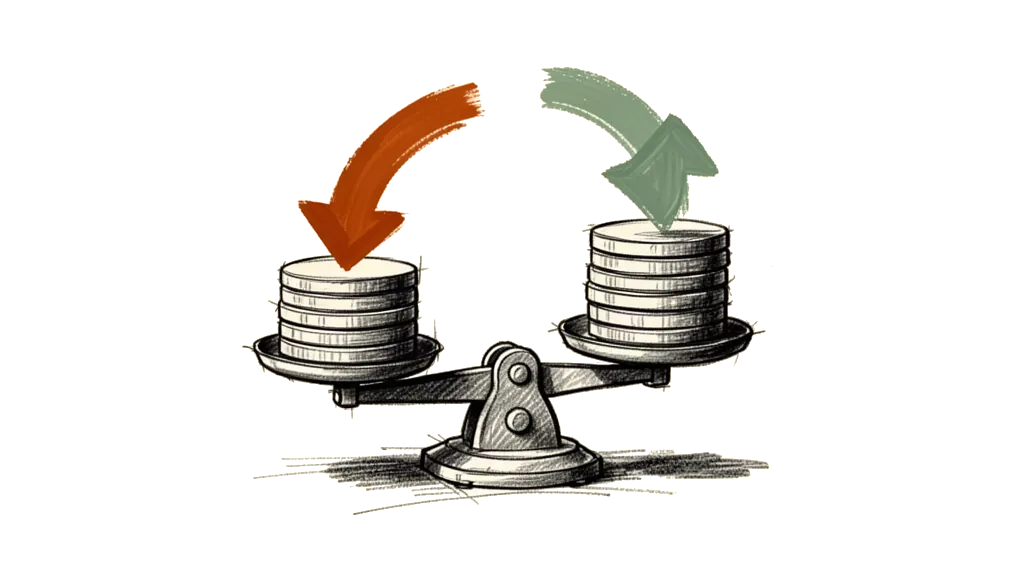
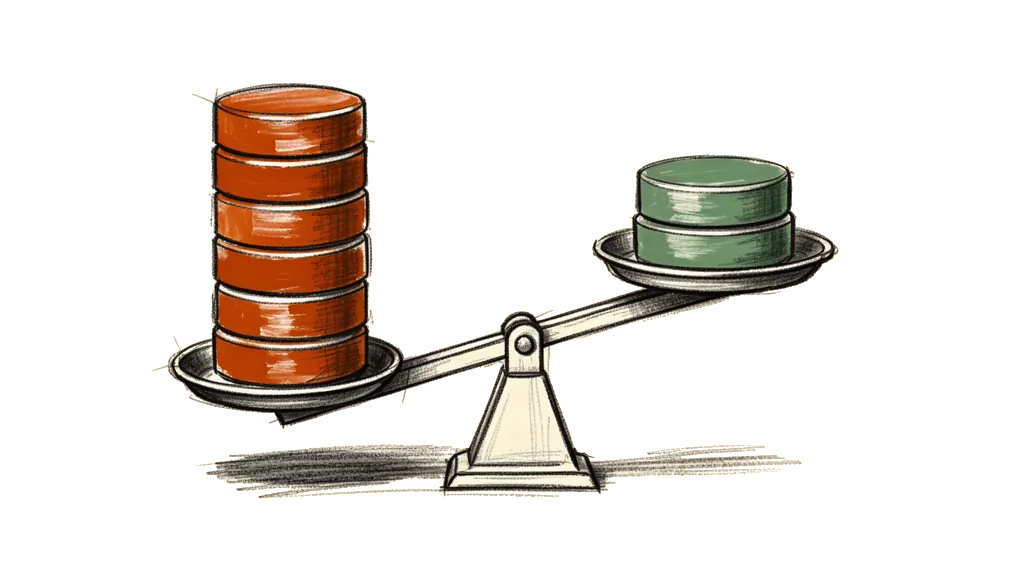
post: publish Bitcoin 2013 chat essay

Changed region(s): [[0.1562, 0.0938, 0.8125, 0.9062]]

diff --git a/content/posts/de/2026/bitcoin-2013-gelddrucken-mtgox.md b/content/posts/de/2026/bitcoin-2013-gelddrucken-mtgox.md
@@ -1,0 +1,180 @@
+---
+title: "Gelddrucken in Neukölln: Mein Bitcoin-Chat 2013"
+seo_title: "Gelddrucken in Neukölln: Mein Bitcoin-Chat 2013 | emin.de"
+description: "Ein nächtlicher Bot auf Mt. Gox, 17.500 Euro für einen Miner und eine Rechnung, die auf vier Schätzungen steht."
+date: 2026-11-17
+updated: 2026-11-17
+lang: de
+translations: {}
+category: bitcoin
+format: essay
+author: emin
+provenance: mixed
+ai_assisted: true
+reviewed_by_human: false
+review_status: draft-emin-voice
+voice_rewrite: v1
+tags: ["bitcoin", "mining", "mtgox", "2013", "difficulty", "wallet"]
+source_links:
+  - { title: "Eurostat nrg_pc_204, Haushaltsstrompreise", url: "https://ec.europa.eu/eurostat/databrowser/view/nrg_pc_204/default/table", note: "Deutschland, 2. Halbjahr 2013, 0,2921 Euro je kWh." }
+  - { title: "Block 274.047", url: "https://mempool.space/api/v1/block/0000000000000004ca4e3cbe80d01b3c8a0851b55c011573440730784a798673", note: "Difficulty 707.408.283, Subsidy 25 BTC." }
+  - { title: "Block 274.240", url: "https://mempool.space/api/v1/block/00000000000000007dd1a9c6ff5c9d0ecaa622c3a8c24455c8768f148399325b", note: "Difficulty 908.350.862, Anstieg um 28,4 Prozent." }
+  - { title: "Bitcoin Developer Guide: Block Chain", url: "https://developer.bitcoin.org/devguide/block_chain.html", note: "Difficulty-Anpassung, Blocksubsidie und Proof of Work." }
+  - { title: "Bitcoin Developer Guide: Transactions", url: "https://developer.bitcoin.org/devguide/transactions.html", note: "UTXOs, Private Key, Wechselgeld." }
+  - { title: "Reuters: Mt. Gox files for bankruptcy", url: "https://www.reuters.com/article/business/mt-gox-files-for-bankruptcy-hit-with-lawsuit-idUSBREA1R0FX", note: "Insolvenzantrag 28.02.2014, damals gemeldete 850.000 BTC." }
+  - { title: "CNBC: Mt. Gox findet 200.000 BTC", url: "https://cnbc.com/2014/03/20/mtgox-says-it-found-200000-bitcoins-in-forgotten-wallet.html", note: "Wiedergefundene Coins, 20.03.2014." }
+tldr:
+  - "2013 ließ ich 1.760 Euro in einem Handelsbot auf Mt. Gox mitlaufen. 6,5 Prozent Zwischenstand, nichts davon realisiert."
+  - "Für 17.500 Euro und 670 GH/s bin ich nach Mannheim gefahren, ohne zu wissen, wie Mining geht."
+  - "Die Amortisation von 63,7 Tagen steht auf vier Schätzungen. Einen Tag nach dem Kauf fiel der rechnerische Ertrag um 22,1 Prozent."
+  - "Mt. Gox galt im Chat als zu profitabel zum Schließen. 81 Tage später kam der Insolvenzantrag."
+basically:
+  der-bot-läuft-im-handbetrieb: "Der Bot stellt Orders über HTTP, Mt. Gox antwortet mit Fehlern, das System stoppt, ich lese den Kurs bei 690 ab."
+  zwei-nicht-miner-kaufen-hardware: "17.500 Euro, 670 GH/s, keine Ahnung von Mining, dafür eine Pool-Empfehlung vom Verkäufer."
+  die-rechnung-steht-auf-vier-annahmen: "41 Stunden, 690 Euro, 600 Watt und ein Strompreisdurchschnitt ergeben 63,7 Tage, die prompt brechen."
+  da-sind-doch-die-coins-drinn: "Die Wallet enthält Schlüssel, keine Coins. Das Guthaben ist die Summe passender UTXOs in einer öffentlichen Kette."
+  rebalancing-ist-keine-arbitrage: "Kaufen bei Fall, verkaufen bei Steigung, gehebelt, vier Prozent in vier Tagen laut Julian."
+  vertrauen-auf-kredit: "Mt. Gox sei zu profitabel zum Schließen, sagte Julian am 9. Dezember. 81 Tage später kam der Insolvenzantrag."
+  vier-jahre-später: "2017 redet Julian von Future-Arbitrage und zehn Prozent im Monat. Der Miner kommt nicht mehr vor."
+---
+
+In [Bitcoin 2012](/posts/bitcoin-2012) war Arbitrage für mich noch ein Gedankenspiel. Julian hatte so etwas schon einmal programmiert, zwischen zwei Börsen, und sagte, ohne ungefähr eine Million zum Streuen werde das nicht profitabel. Ich hielt damals mehr von eigenen Projekten.
+
+Der Chat, um den es hier geht, fängt ein Jahr später an, nachts, und ist keine Theorie mehr. Es gibt einen Bot, einen Miner und ein Konto bei Mt. Gox. Ich habe das alles mitgemacht, ohne zu wissen, wie Mining funktioniert. Keine Erfolgsstory, eher eine Rechnung mit offenen Stellen.
+
+## Der Bot läuft im Handbetrieb
+
+Am 2. Dezember 2013 um 01:20 schreibe ich Julian, das E-Mail sei bescheuert, wir sollen chatten, und lege gleich meine Prognose hinterher.
+
+> Ich: "Glaube der fällt noch bis auf 500 oder weniger und dann pendelt er sich ein (nur so ein bauchgefühl) aber interessant wirds ja eh erst dann, wenn der kurs total ausrastet und dein system wirkt. nimmst du meine coins da gleich mit rein"
+
+Sein System ist ein Bot, der Orders über die HTTP-Schnittstelle von Mt. Gox stellt. Wenn die Börse mit einem Fehler antwortet, hält er an, aus Sicherheit. Deshalb steht er auf Handbetrieb.
+
+> Julian: "die bitcoins ins system packen dauert, die müssen erst transferiert werden"
+> Julian: "und das system ist grad auf handbetrieb, die connection per hhtp schmiert immer ab und das system stoppt aus sicherheit."
+
+Später sagt er: "habe heute alle chancen mitgenommen aber es war anstrengend". Der Automat ist an diesem Tag ein Mensch mit offenem Fenster.
+
+Um 01:23 frage ich, ob hohe oder niedrige Preise besser sind. Er sagt hoch. Der Kurs steht im Chat, weil ich ihn ablese.
+
+> Ich: "sind bei 690 grad"
+
+Kurz darauf rechnet Julian mir einen Zwischenstand zu.
+
+> Julian: "du hast jetzt schon 6.5% gewinn gemacht mit deinen 1760€, na wie fühlt sich das an? :D"
+> Julian: "und gleich ist es wieder weg"
+
+6,5 Prozent von 1.760 € sind 114,40 €. Nichts davon ist realisiert, es steht nur im System. Ich antworte, dass ich das Mitfiebern liebe, egal ob Fußball oder Bitcoin.
+
+## Zwei Nicht-Miner kaufen Hardware
+
+Am 8. Dezember finde ich eine Anzeige für KnC-Miner, November-Batch, 670 GH/s, mit Rechnung, von jemandem, der die Geräte auch vermietet. "scheint relativ seriös", schreibe ich. Am nächsten Tag fahre ich los.
+
+> Ich: "Jo bin auf dem weg nach mannheim"
+> Ich: "miner kaufen  😃"
+
+Unterwegs frage ich noch, ob wir uns einem Pool anschließen müssen. Julian sagt ja und dann: "kenn mich aber auch nicht aus". Zwei Nicht-Miner kaufen also Hardware, der Verkäufer liefert die Pool-Empfehlung gleich mit.
+
+Die Leistung steht zuerst falsch im Chat. Ich schreibe 360 GH/s, Julian fragt nach, ich korrigiere: "ähm ja klar 670 sorry". 17.500 € und 670 GH/s sind ab hier die beiden Zahlen, mit denen wir für die Maschine rechnen. Den finalen Kaufpreis zeigt der Chat nicht.
+
+Abends teste ich fünf Minuten und poste den ersten Kontostand.
+
+> Ich: "habs aber auch 5min getestet"
+> Ich: "0.00570064 auf meinem account  😃"
+
+0,00570064 BTC in fünf Minuten wären hochgerechnet 1,64 BTC am Tag. Später stehen 0,68 BTC nach geschätzten 41 Stunden auf dem Zähler. Als Rate taugt der erste Wert deshalb nicht. Was genau davon bereits auf dem Konto war, geht aus dem Chat nicht hervor. Ich habe ihn trotzdem wie ein Ergebnis behandelt.
+
+## Die Rechnung steht auf vier Annahmen
+
+Julian schätzt den Break-even auf zwei bis drei Monate. Am 11. Dezember schreibe ich den Kontostand.
+
+> Ich: "0.67992427 BTC!"
+> Julian: "ok also ungefähr 41 stunden für die summe, rechne mal mit exel rum"
+
+Die Rechnung mit dem Kontostand ist einfach:
+
+```
+Ertrag/24 h  = 0,67992427 BTC / 41 h × 24 h = 0,398004 BTC
+Brutto/Tag   = 0,398004 BTC × 690 €           = 274,62 €
+Amortisation = 17.500 € / 274,62 €            = 63,7 Tage
+Strom/Tag    = 0,6 kW × 24 h × 0,2921 €/kWh  = 4,21 €
+```
+
+Bei 690 € je BTC und gleich bleibendem Ertrag wären die 17.500 € also nach 63,7 Tagen wieder drin, vor Strom und allen anderen Kosten. Mit dem deutschen Haushaltsdurchschnitt von [0,2921 €/kWh](https://ec.europa.eu/eurostat/databrowser/view/nrg_pc_204/default/table) aus der zweiten Jahreshälfte 2013 kommen 4,21 € Stromkosten pro Tag dazu. Dann sind es 64,7 Tage.
+
+Jetzt die Annahmen.
+
+Die 41 Stunden sind Julians Schätzung, kein Log. Ich hatte im Chat einen Ausfall gemeldet, er fragt, ob es zwei waren, die Zahl bleibt offen.
+
+690 € ist der Kurs vom 2. Dezember, nicht vom Tag des Ertrags. Am 9. Dezember rechnet der Chat selbst mit rund 600 € pro BTC, das ist die vorsichtigere Zahl. Mit 600 € wären es 73,3 Tage statt 63,7.
+
+600 Watt hat nie jemand gemessen. Julian fragt "strom 600W richtig?", ich antworte "jo", und dann: "ich habs noch nicht gemessen" und "aber das steht im internet". Die 4,21 € Stromkosten stehen deshalb auch nur auf einer Annahme.
+
+Der Strompreis ist ein Eurostat-Durchschnitt für Haushalte, kein Tarif von uns.
+
+Zur Plausibilität: Bei der Difficulty von [Block 274.047](https://mempool.space/api/v1/block/0000000000000004ca4e3cbe80d01b3c8a0851b55c011573440730784a798673) liegt der langfristige Erwartungswert für 670 GH/s bei 0,4763 BTC am Tag, vor Pool-Gebühren und mit damals 25 BTC Subsidy pro Block. Die hochgerechneten 0,398 BTC liegen in derselben Größenordnung. Ein Beweis für konstante Ausbeute ist das nicht.
+
+Und dann kommt der 10. Dezember. Die Difficulty springt mit [Block 274.240](https://mempool.space/api/v1/block/00000000000000007dd1a9c6ff5c9d0ecaa622c3a8c24455c8768f148399325b) auf 908.350.862, ein Plus von 28,4 Prozent in weniger als einem Tag. Für dieselbe Hashrate bleiben rechnerisch 22,1 Prozent weniger BTC. Aus 63,7 Tagen werden 81,8, wenn ich den gleichen Kurs und die neue Durchschnittsausbeute ansetze. Bei weiteren Sprüngen dieser Art ist die statische Zahl eine Untergrenze, keine Prognose. Die Rechnung bricht einen Tag nach dem Kauf.
+
+## Da sind doch die Coins drinn
+
+Am 9. Dezember, während der Fahrt, frage ich Julian nach Wallet und Backup. Er sagt, die Key-Dateien lägen bei ihm auf zwei Rechnern und einem USB-Stick, mit einem 20-Zeichen-Passwort.
+
+> Ich: "Du brauchst doch auch dein Wallet oder nicht? Da sind doch die Coins drinn, musst du genau so backupen oder?"
+
+Das ist der Fehler. In der Wallet sind keine Coins. In der Wallet sind Schlüssel.
+
+Ich will die Wallet auf ein Telefon legen.
+
+> Ich: "fühlt sich irgendwie sicherer an, pack das da rauf und pack mein telefon in ne schublade und hols nur raus wenn ichs brauche"
+
+Die Schublade schützt ein Gerät mit Schlüsseln. Mehr nicht.
+
+Eine Bitcoin-Adresse ist kein Konto mit einer Zahl darauf. Eine Wallet zeigt die Summe der noch unausgegebenen Transaktions-Outputs an, für die sie passende Schlüssel hat. Diese [UTXOs](https://developer.bitcoin.org/devguide/transactions.html) sind an Bedingungen gebunden. Wer sie mit einer Signatur seines privaten Schlüssels erfüllt, darf sie ausgeben. Jede Transaktion verbraucht ganze Stücke und erzeugt neue, den Rest schickt sie als Wechselgeld zurück.
+
+Die Blockchain ist das öffentliche Kassenbuch dieser Vorgänge. Jeder kann die Beträge und Adressen lesen, sie sind pseudonym, nicht verschlüsselt. Julians Erklärung im Chat, es sei "verschlüsselt wem welcher bitcoin gehört", ist deshalb nur halb richtig. Sein nächster Satz trifft es besser: "deine wallet ist eigentlich nur ein schlüssel mit dem du was an dieser blockchain verändern kannst".
+
+Wer die Schlüssel hat, kommt ohne mich an die Coins. Mein Satz "der key ist wichtig right?" ist die halbe Wahrheit, die ich für die ganze halte. Später schreibe ich: "so ich habs jetzt kapiert".
+
+## Rebalancing ist keine Arbitrage
+
+Julian kauft bei fallendem Kurs und verkauft bei steigendem, in Stufen, und nennt das Rebalancing. Mit Arbitrage hat das nichts zu tun. Auf meine Frage nach der Anzeige sagt er: "rebalancing mache ich, aber gehebelt".
+
+Am 9. Dezember nennt er die einzige Renditekennzahl des Chats.
+
+> Julian: "vor 4 tagen stand der kurs schon einmal bei 670"
+> Julian: "seit dem zu jetzt kurs 670 haben wir 4% gewinn gemacht (aber wir hatten den system fehler der uns geld gekostet hat)"
+> Julian: "eigentlich wären die letzten tage so 7% gewinn gewesen, ohne system ausfall"
+> Julian: "von gleichen kurs zu gleichen kurs"
+> Julian: "aber die letzten tage waren auch optimal für uns"
+
+4 Prozent in vier Tagen bei gleichem Kurs, "eigentlich" 7. Das ist eine Selbstauskunft ohne Auszug. Der Systemausfall hat Geld gekostet, wie viel, sagt er nicht. "Gehebelt" bleibt undefiniert, und die Anzeige trennt Gewinn aus Kursbewegung nicht von Gewinn aus dem System. Risikofrei ist daran nichts.
+
+Dazu kommen zwei getrennte Töpfe. Die 1.760 € liegen im alten System, die 2,5 BTC, die ich am 9. Dezember erfrage, liegen auf einem fremden Mt.-Gox-Konto. Ob es 2,5 oder 1,25 sind, weiß ich selbst nicht, weil das Geld von Julians Bruder kam. 2,5 BTC wären zu 690 € 1.725 €, also fast der Einsatz. Beides zusammenzurechnen wäre falsch.
+
+## Vertrauen auf Kredit
+
+Am 9. Dezember erklärt Julian den Unterschied zwischen bitcoin.de und Mt. Gox. Dann sagt er den Satz, der diesen Text trägt.
+
+> Julian: "mtgox ist vertrauenswürdig genug das sie nicht einfach schließen, dazu machen die zuviel geld damit"
+
+Seine Begründung ist nicht Regulierung, nicht Technik, sondern Geschäftsvolumen.
+
+Ich frage, ob seine Coins nicht weg sind, wenn Mt. Gox abschmiert. Er hält die eigene Wallet für das größere Risiko, weil man sie selbst verbocken kann. Zwei Tage später schreibe ich, ohne dass jemand nachfragt:
+
+> Ich: "wenn die abschmiert, sind wir im arsch"
+
+Vom 9. Dezember bis zum 28. Februar 2014 sind es 81 Tage. An dem Tag beantragt Mt. Gox [Gläubigerschutz](https://www.reuters.com/article/business/mt-gox-files-for-bankruptcy-hit-with-lawsuit-idUSBREA1R0FX) beim Bezirksgericht Tokio. Nach damaliger Angabe des Unternehmens fehlten 750.000 BTC von Kunden und 100.000 eigene, zusammen 850.000. Am 7. März wurden in einer alten Wallet rund [200.000 BTC wiedergefunden](https://cnbc.com/2014/03/20/mtgox-says-it-found-200000-bitcoins-in-forgotten-wallet.html), es blieben 650.000 als damals gemeldeter Fehlbetrag.
+
+Was aus genau meinen 2,5 oder 1,25 BTC wurde, steht nicht im Chat. Deshalb gibt es hier auch keine Mt.-Gox-Verlustgeschichte. Belegt ist nur, wo sie lagen, als wir darüber sprachen.
+
+## Vier Jahre später
+
+Am 28. Oktober 2017 schreibe ich Julian nach drei Jahren wieder an und frage, was er mit Crypto macht. Sein System gibt es noch.
+
+> Julian: "ich mach immer noch mein future arbitrage"
+> Julian: "zur zeit mach ich damit ~10% profit im monat ohne kurs schwankungsrisiko"
+
+Zehn Prozent im Monat, vier Jahre später, wieder ohne Auszug. Der Miner kommt in seiner Antwort nicht vor, kein Wort über die Hardware oder den Ausstieg. Ich habe auch nicht danach gefragt.
+
+Das ist die ehrlichste Pointe, die dieser Chat hat. Wir haben 17.500 Euro, 670 GH/s und 600 Watt diskutiert. Am Ende interessiert wieder nur die Rendite. An der ungemessenen Zahl von 600 Watt ändert sich im Chat bis zuletzt nichts.
